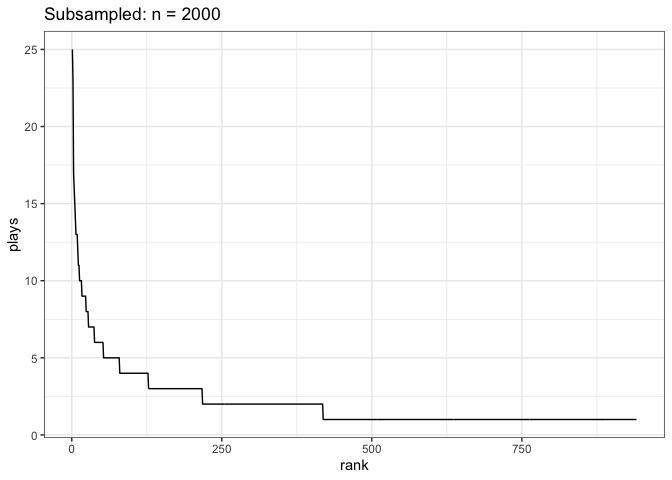
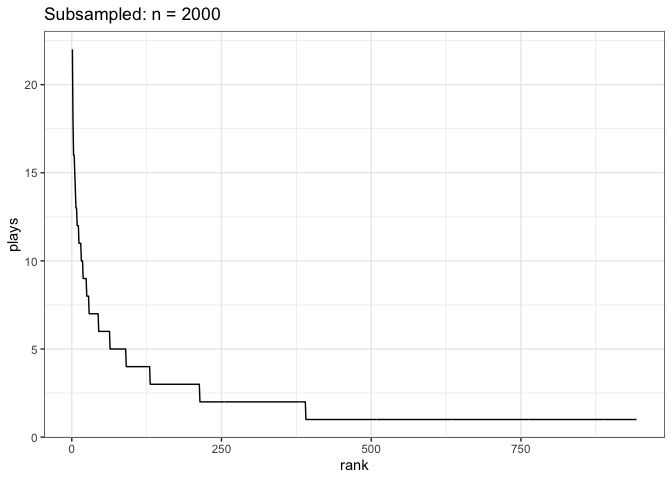
dump this

diff --git a/05_simple_metrics/song_plays.md b/05_simple_metrics/song_plays.md
@@ -2,14 +2,12 @@ Song plays
 ================
 
 ``` r
-songs <- read.csv(here::here("05_simple_metrics", "rmd_music.csv")) %>%
-  mutate(rank = dplyr::row_number()) %>%
-  select(Title, rank, Plays)
+songs <- read.csv(here::here("05_simple_metrics", "song_plays.csv"))
 
 head(songs)
 ```
 
-    ##                         Title rank Plays
+    ##                          song rank plays
     ## 1 Dark Bird (St. Lucia Remix)    1   393
     ## 2                    Delicate    2   312
     ## 3        Almost (Sweet Music)    3   301
@@ -17,12 +15,12 @@ head(songs)
     ## 5                       Angel    5   293
     ## 6                       Clean    6   284
 
-Richness (number of songs): 2762
+Richness (number of songs): 2755
 
-Abundance (number of plays): 38300
+Abundance (number of plays): 0
 
 ``` r
-ggplot(songs, aes(rank, Plays)) +
+ggplot(songs, aes(rank, plays)) +
   geom_line()
 ```
 
@@ -32,15 +30,15 @@ ggplot(songs, aes(rank, Plays)) +
 
 ``` r
 songs_summary <- songs %>%
-  summarize(hill_0 = hill_taxa(Plays, q = 0),
-         hill_1 = hill_taxa(Plays, q = 1),
-         hill_2 = hill_taxa(Plays, q = 2))
+  summarize(hill_0 = hill_taxa(plays, q = 0),
+         hill_1 = hill_taxa(plays, q = 1),
+         hill_2 = hill_taxa(plays, q = 2))
 
 songs_summary
 ```
 
     ##   hill_0   hill_1   hill_2
-    ## 1   2762 1139.176 578.8498
+    ## 1   2755 1139.369 577.9806
 
 ## Subsampling
 
@@ -53,7 +51,7 @@ What if we randomly observed a subsample of songs?
 sample_size = 2000
 
 sampled_songs <- data.frame(
-  song_id = sample.int(nrow(songs), size = sample_size, prob = songs$Plays / sum(songs$Plays), replace = T)) %>%
+  song_id = sample.int(nrow(songs), size = sample_size, prob = songs$plays / sum(songs$plays), replace = T)) %>%
   group_by(song_id) %>%
   tally() %>%
   ungroup() %>%
@@ -81,16 +79,4 @@ sampled_songs_summary
     ## # A tibble: 1 × 3
     ##   hill_0 hill_1 hill_2
     ##    <int>  <dbl>  <dbl>
-    ## 1    941   680.   452.
-
-<!-- ## Grouped by artist -->
-<!-- ```{r} -->
-<!-- artists <- songs %>% -->
-<!--   group_by(Artist) %>% -->
-<!--   summarize(total_plays = sum(Plays)) %>% -->
-<!--   ungroup() %>% -->
-<!--   arrange(desc(total_plays)) %>% -->
-<!--   mutate(rank = dplyr::row_number()) -->
-<!-- ggplot(artists, aes(rank, total_plays)) + -->
-<!--   geom_line() -->
-<!-- ``` -->
+    ## 1    943   672.   453.
